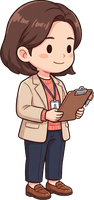
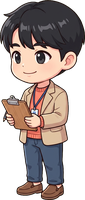
Adventure mode: stage-themed letters, per-stage quests, cooldown UI
- Rewrite hidden letters to match each stage's theme; add 3 letters to the work street
- Count quest kills/drops only on the quest NPC's own map (no stage-2 papers in stage 1)
- Rename the group-home support center NPC to 서아공 with a new male sprite
- Add general store NPCs to the first-home alley and work street
- Faster smishing mob with short dashes
- Buffered and hold-to-repeat attacks; touch buttons capture pointers for multi-press
- Show skill/dash cooldowns on HUD quick slots and touch buttons

diff --git a/game_adventure.html b/game_adventure.html
@@ -247,6 +247,16 @@
     .rb.jump { background: rgba(80, 170, 255, .5); }
     .rb.skill { background: rgba(190, 110, 255, .5); width: clamp(40px, 11vh, 50px); }
     .rb.skill.cd { filter: grayscale(1); }
+    /* 쿨타임: 남은 만큼 어둡게 덮고(--cd = 남은 비율) 남은 초를 가운데에 */
+    .rb { position: relative; }
+    .rb.cd::before {
+      content: ''; position: absolute; inset: -2px; border-radius: 50%; pointer-events: none;
+      background: conic-gradient(transparent calc((1 - var(--cd, 0)) * 360deg), rgba(0,0,0,.6) 0);
+    }
+    .rb.cd::after {
+      content: attr(data-t); position: absolute; inset: 0; display: flex; align-items: center; justify-content: center;
+      font-size: 1.6em; font-weight: bold; color: #fff; text-shadow: 0 0 3px #000, 0 0 3px #000; pointer-events: none;
+    }
     .rb.dash { display: none; background: rgba(90, 210, 200, .5); width: clamp(40px, 11vh, 50px); }
     .rb.dash.show { display: flex; }
     .rb.talk { display: none; background: rgba(255, 196, 0, .8); opacity: 1; animation: talkPulse 1.2s ease-in-out infinite; }
@@ -272,6 +282,15 @@
     .qs b { position: absolute; right: 3px; bottom: 1px; font-weight: normal; font-size: clamp(9px, 1.2vw, 12px); text-shadow: 0 1px 2px #000; }
     .qs small { position: absolute; left: 3px; top: 1px; font-size: 9px; color: #ffd98a; }
     .qs.empty { opacity: .45; }
+    .qs.sk { border-color: rgba(200, 160, 255, .7); }
+    .qs.cd::before {
+      content: ''; position: absolute; inset: 0; border-radius: 8px; pointer-events: none;
+      background: conic-gradient(transparent calc((1 - var(--cd, 0)) * 360deg), rgba(0,0,0,.65) 0);
+    }
+    .qs.cd::after {
+      content: attr(data-t); position: absolute; inset: 0; display: flex; align-items: center; justify-content: center;
+      font-size: .8em; font-weight: bold; text-shadow: 0 0 3px #000, 0 0 3px #000; pointer-events: none;
+    }
     .shop-tabs { display: flex; gap: 8px; justify-content: center; margin-bottom: 10px; }
     .shop-list { display: grid; grid-template-columns: repeat(auto-fill, minmax(150px, 1fr)); gap: 10px; }
     .item {
@@ -354,6 +373,9 @@
         <div class="quick" id="quick">
           <button class="qs" data-pot="potS" title="작은 물약 (1)">🧪<b id="qPotS">0</b><small>1</small></button>
           <button class="qs" data-pot="potL" title="큰 물약 (2)">💖<b id="qPotL">0</b><small>2</small></button>
+          <!-- 기술 칸: 쿨타임 동안 어둡게 덮이고 남은 초가 보인다 -->
+          <button class="qs sk" id="qSkill" data-act="skill" title="스킬 (X)">✨<small>X</small></button>
+          <button class="qs sk" id="qDash" data-act="dash" title="대시 (V)" style="display:none">💨<small>V</small></button>
         </div>
         <div class="hud-btns">
           <button class="hbtn" id="stageBtn">🎮 미니게임</button>
@@ -507,7 +529,7 @@
     counselor: { img: 'npc_counselor', name: '마음쉼터 상담 선생님' },
     mentor:    { img: 'npc_mentor',    name: '자립 선배 태오' },
     shop:      { img: 'npc_shop',      name: '잡화점 하나 사장님' },
-    center:    { img: 'npc_center',    name: '지원센터 윤슬 선생님' },
+    center:    { img: 'npc_center',    name: '서아공' },
     teacher:   { img: 'npc_teacher',   name: '배움마켓 강 강사' },
     pharm:     { img: 'npc_pharm',     name: '동네 약국 약사님' },
     agency:    { img: 'npc_agency',    name: '전담기관 한결 상담원' },
@@ -523,23 +545,33 @@
     magnet: { em: '🧲', name: '코인 자석', price: 120, desc: '근처에 떨어진 코인과 아이템이 알아서 따라와요.' },
   };
 
-  // 아케이드 모드 편지 15통 — 맵 곳곳에 숨겨둔 수집품. {아}/{이가} 등은 이름 받침에 맞춰 바뀐다
+  // 숨겨진 편지 18통 — 맵마다 3통씩, 그 스테이지 주제에 맞는 내용. {아}/{이가} 등은 이름 받침에 맞춰 바뀐다
+  // ※ 저장 데이터가 순번(index)으로 기억하니, 앞 15통의 자리(map·x·y)는 바꾸지 말고 새 편지는 뒤에 붙인다
   const LETTERS = [
-    { map: 'home',   x: 720,  y: 302, text: '{name아}, 네가 처음 그룹홈에 왔던 날이 아직도 선해. 그 작던 아이가 이렇게 멋지고 든든한 어른이 됐구나.', from: '원장님' },
-    { map: 'home',   x: 1100, y: 385, text: '서두르지 않아도 돼. 네 속도로 걸어도 충분히 멀리 갈 수 있어. 파이팅!', from: '담당 선생님' },
-    { map: 'home',   x: 1400, y: 300, text: '매일 밤 기도했어. 우리 {name이가} 따뜻한 곳에서 배불리 먹고 잘 자고 있기를. 보고 싶구나.', from: '원장님' },
-    { map: 'town',   x: 1100, y: 212, text: '모르는 걸 물어보러 온 네가 이미 대단한 거야. 배움에는 나이도 늦음도 없단다.', from: '배움마켓 강사' },
-    { map: 'town',   x: 1560, y: 385, text: '{name} 씨, 매달 20일은 국가가 {name} 씨를 기억하는 날이에요. 잊지 않을게요.', from: '행정복지센터 복지팀' },
-    { map: 'town',   x: 1950, y: 300, text: '오늘 처음으로 내 이름으로 된 통장을 열었다. 손이 떨렸다. 이게 내 돈이라니... 아직 실감이 안 난다.', from: '{name}의 일기' },
-    { map: 'bank',   x: 820,  y: 300, text: '꼬마 때 동전 모으러 오던 아이가 벌써 이렇게 컸네요. 앞으로도 좋은 일만 가득하길.', from: '○○은행 창구' },
-    { map: 'bank',   x: 1800, y: 215, text: '5천만원... 이 숫자의 무게는 돈이 아니라, 나를 믿어준 사람들의 마음이었다.', from: '{name}의 메모' },
-    { map: 'bank',   x: 2100, y: 380, text: '같이 걸어서 여기까지 왔다. 뒤돌아보면 우리가 걸어온 발자국이 얼마나 많은지 보여.', from: '동료 청년' },
-    { map: 'house',  x: 680,  y: 302, text: '좋은 집이야. 여기서 따뜻한 밥 해먹고, 편히 자렴. 축하한다, {name아}.', from: '행복부동산 아저씨' },
-    { map: 'house',  x: 1200, y: 120, text: '아프면 참지 말고 꼭 오렴. 건강이 제일이야.', from: '동네 약국 약사님' },
-    { map: 'house',  x: 1520, y: 300, text: '전국 어디로 이사 가든 우리가 찾아갈게. {name} 씨는 혼자가 아니에요.', from: '자립지원전담기관' },
-    { map: 'forest', x: 1030, y: 302, text: '울어도 괜찮아. 그건 약한 게 아니야. 마음껏 울고 나면, 조금 더 가벼워질 거야.', from: '상담사 선생님' },
-    { map: 'forest', x: 1650, y: 300, text: '{name아}, 이 길엔 늘 함께 걷는 우리가 있어. 서로 정보도 나누고, 앞으로도 쭉 같이 가자.', from: '자립 커뮤니티 동기' },
+    // 보금자리 언덕: 그룹홈을 떠나는 날, 보호기간 연장, 지원센터
+    { map: 'home',   x: 720,  y: 302, text: '{name아}, 네가 처음 그룹홈에 왔던 날이 아직도 선해. 그 작던 아이가 이렇게 든든하게 컸구나. 떠나도 여긴 언제나 네 집이야.', from: '원장님' },
+    { map: 'home',   x: 1100, y: 385, text: '아직 준비가 덜 된 것 같으면 만 24세까지 여기서 더 지내도 돼. 서두르지 말고 네 속도로 가자.', from: '담당 선생님' },
+    { map: 'home',   x: 1400, y: 300, text: '그룹홈을 나가도 연락 끊길 걱정은 하지 마. 나가기 6개월 전부터 그 뒤까지, 내가 쭉 옆에서 챙길게.', from: '서아공' },
+    // 주민센터 거리: 서류·신청, 자립수당, 배움마켓
+    { map: 'town',   x: 1100, y: 212, text: '모르는 걸 물어보러 온 것부터 이미 대단한 거야. 통장 만들기도 월세 계약도, 모르면 배우면 돼.', from: '배움마켓 강 강사' },
+    { map: 'town',   x: 1560, y: 385, text: '{name} 씨, 매달 20일은 자립수당 들어오는 날이에요. 신청 서류에서 막히는 칸이 있으면 언제든 들고 와요.', from: '주민센터 민지 주무관' },
+    { map: 'town',   x: 1950, y: 300, text: '오늘 주민센터에서 처음으로 내 이름으로 서류를 냈다. 떨렸는데, 생각보다 별거 아니었다. 나도 할 수 있네.', from: '{name}의 일기' },
+    // 씨앗은행 광장: 첫 통장, 저축, 디딤씨앗통장
+    { map: 'bank',   x: 820,  y: 300, text: '꼬마 때 저금통 들고 오던 아이가 벌써 이렇게 컸네요. 적은 돈이라도 꾸준히 넣으면 그게 씨앗이 돼요.', from: '씨앗은행 김 대리' },
+    { map: 'bank',   x: 1800, y: 215, text: '오늘 처음으로 내 이름으로 된 통장을 열었다. 손이 떨렸다. 이게 내 돈이라니... 아직 실감이 안 난다.', from: '{name}의 일기' },
+    { map: 'bank',   x: 2100, y: 380, text: '나도 처음엔 한 달에 5만원밖에 못 넣었어. 그런데 디딤씨앗통장에 매달 15만원씩 쌓이는 걸 보니까 처음으로 내일이 기다려지더라.', from: '먼저 자립한 선배' },
+    // 첫 집 골목: 내 집 마련, 건강, 전담기관
+    { map: 'house',  x: 680,  y: 302, text: '좋은 집이야. 여기서 따뜻한 밥 해 먹고 푹 자렴. 계약서는 꼭 잘 챙겨 두고! 축하한다, {name아}.', from: '집 상담사 오 선생님' },
+    { map: 'house',  x: 1200, y: 120, text: '혼자 살면 아파도 참게 되더라. 그러지 말고 꼭 오렴. 건강이 제일이야.', from: '동네 약국 약사님' },
+    { map: 'house',  x: 1520, y: 300, text: '전국 어디로 이사 가든 우리가 찾아갈게요. {name} 씨는 혼자가 아니에요.', from: '자립지원전담기관 한결 상담원' },
+    // 마음 숲: 마음 돌보기, 선배·동료, 마지막 응원
+    { map: 'forest', x: 1030, y: 302, text: '울어도 괜찮아요. 그건 약한 게 아니에요. 실컷 울고 나면 조금은 가벼워질 거예요.', from: '마음쉼터 상담 선생님' },
+    { map: 'forest', x: 1650, y: 300, text: '{name아}, 이 길엔 같이 걷는 우리가 있어. 정보도 나누고 힘들 땐 기대면서, 앞으로도 쭉 같이 가자.', from: '자립준비청년 커뮤니티 동기' },
     { map: 'forest', x: 2300, y: 480, text: '{name아}, 이 편지들은 네가 이 세상에서 사랑받고 있다는 증거야. 앞으로도 쭉, 우리가 응원할게.', from: '우리 모두' },
+    // 일터 거리: 첫 알바, 첫 월급, 일하는 사람의 권리
+    { map: 'work',   x: 500,  y: 392, text: '첫 출근이라 떨리죠? 실수해도 괜찮아요. 처음엔 다 그래요. 모르는 건 그냥 물어봐요.', from: '햇살카페 도윤 사장님' },
+    { map: 'work',   x: 1060, y: 212, text: '첫 월급날. 근로계약서랑 통장에 찍힌 숫자를 몇 번이나 다시 봤다. 내 손으로 번 돈이다!', from: '{name}의 일기' },
+    { map: 'work',   x: 1430, y: 390, text: '일하다 억울한 일이 생기면 혼자 삼키지 말아요. 1350도 있고, 우리 고용센터도 있어요.', from: '고용센터 서진 상담사' },
   ];
 
   // 상점: 물약은 인벤토리로, 가구는 '내 집' 정해진 자리에 놓인다 (x, 바닥 기준 y, 높이)
@@ -570,7 +602,7 @@
     worry:  { img: 'mob_worry',  name: '걱정 구름',     h: 56,  hp: 30,  dmg: 8,  exp: 12,  speed: 45, coin: [3, 8] },
     debt:   { img: 'mob_debt',   name: '빚 코인',       h: 56,  hp: 50,  dmg: 11, exp: 18,  speed: 58, coin: [6, 14] },
     lonely: { img: 'mob_lonely', name: '외로움 그림자', h: 60,  hp: 80,  dmg: 14, exp: 26,  speed: 40, coin: [8, 18] },
-    scam:   { img: 'mob_scam',   name: '스미싱 문자',   h: 58,  hp: 70,  dmg: 13, exp: 24,  speed: 64, coin: [8, 16] },
+    scam:   { img: 'mob_scam',   name: '스미싱 문자',   h: 58,  hp: 70,  dmg: 13, exp: 24,  speed: 115, coin: [8, 16], dart: true }, // 빠르고, 가끔 휙 달려든다
     boss:   { img: 'mob_boss',   name: '불안 대왕',     h: 170, hp: 750, dmg: 20, exp: 260, speed: 55, coin: [150, 200], boss: true },
   };
 
@@ -717,7 +749,7 @@
       npc: 'center', title: '원장님 반찬통 찾기', requires: 'q1',
       goal: { type: 'fetch', item: 'lunch', n: 1 }, goalLabel: '반찬통',
       intro: [
-        '안녕, {name}! 나는 <span class="hi">서울시 아동공동생활가정 지원센터</span>에서 왔어. 그룹홈을 나서는 친구들을 계속 챙기는 게 내 일이야.',
+        '안녕, {name}! 나는 <span class="hi">서아공</span>이야! <span class="hi">서울시 아동공동생활가정 지원센터</span>를 줄여서 서아공이라고 불러. 그룹홈을 나서는 친구들을 계속 챙기는 게 내 일이야.',
         '그런데 동생들이 장난으로 원장님이 싸 둔 🍱 <span class="hi">반찬통</span>을 언덕 꼭대기 발판에 숨겨놨대. 가져와 줄래?',
       ],
       active: '반찬통은 언덕 오른쪽 제일 높은 발판 위에 있어. 발판을 차례로 밟고 올라가 봐!',
@@ -854,7 +886,7 @@
         '(띵동) {name아}, 원장님이야! 반찬 좀 싸 왔어. 집 구경 좀 해도 될까?',
         '어머, 아직 좀 휑하네. 이왕이면 다 같이 <span class="hi">집들이</span> 하자! 잡화점에서 <span class="hi">가구 3개</span>만 채워볼래?',
       ],
-      active: '가구는 주민센터 거리 잡화점에서 살 수 있어. 코인이 모자라면 씨앗은행 저축도 써 봐!',
+      active: '가구는 잡화점에서 살 수 있어. 첫 집 골목에도 있으니까 바로 나가 봐! 코인이 모자라면 씨앗은행 저축도 써 봐!',
       ready: ['와, 이제 진짜 집 같다! 우리 {name이} 다 컸네.', '집들이 전에, 같이 지난 길을 돌아볼까?'],
       quizzes: [{
         q: '가계부를 펴 볼까? 서울 자립정착금 <span class="hi">2,000만원</span> + 자립수당 5년치(<span class="hi">50만원 × 60개월</span>)를 더하면?',
@@ -912,7 +944,7 @@
       // 사다리 1: 땅 → 발판(850~1050, y212) / 사다리 2: 그 발판 → 옥상(990~1380, y120)
       plats: [[360, 392, 200], [600, 302, 180], [850, 212, 200], [990, 120, 390], [1420, 300, 220], [1680, 390, 200]],
       ladders: [[890, 212, 480], [1020, 120, 212]],
-      npcs: [['house', 220], ['pharm', 1300], ['agency', 1640]],
+      npcs: [['house', 220], ['shop', 720], ['pharm', 1300], ['agency', 1640]],
       spawns: [['worry', -1, 500, 1850, 3], ['debt', 4, 0, 0, 1], ['lonely', 5, 0, 0, 1]],
       portals: [{ x: 60, to: 'bank', at: 1 }, { x: 1940, to: 'work', at: 0, need: 'q4' }, { x: 560, to: 'myhome', at: 0, need: 'q4' }],
       items: [{ item: 'key', icon: '🔑', x: 1300, y: 120, quest: 'q4' }],
@@ -931,7 +963,7 @@
       title: '일터 거리', area: '새싹 동네', bg: 'bg_work', w: 2400,
       plats: [[380, 392, 240], [680, 300, 220], [980, 212, 220], [1300, 390, 260], [1620, 300, 240], [1940, 215, 220]],
       ladders: [[1100, 212, 480]],
-      npcs: [['cafe', 260], ['jobcenter', 1480]],
+      npcs: [['cafe', 260], ['shop', 800], ['jobcenter', 1480]],
       spawns: [['scam', -1, 520, 2250, 4], ['debt', -1, 700, 2200, 2], ['scam', 1, 0, 0, 1], ['scam', 4, 0, 0, 1], ['debt', 3, 0, 0, 1]],
       // 이미 마음 숲 퀘스트(q5)를 시작한 기존 플레이어는 일터 퀘스트 없이도 지나갈 수 있다
       portals: [{ x: 60, to: 'house', at: 1 }, { x: 2340, to: 'forest', at: 0, need: 'qw1', skipIf: 'q5' }],
@@ -944,6 +976,10 @@
       start: 200,
     },
   };
+
+  // 퀘스트 id → 그 퀘스트 NPC가 서 있는 맵
+  const QUEST_MAP = {};
+  for (const id in QUESTS) for (const m in MAPS) if (MAPS[m].npcs.some(n => n[0] === QUESTS[id].npc)) QUEST_MAP[id] = m;
 
   /* ================= IMAGES ================= */
   const IMG = {};
@@ -1029,10 +1065,19 @@
 
   document.querySelectorAll('[data-k]').forEach(b => {
     const k = b.dataset.k;
-    const on = (e) => { e.preventDefault(); if (!keys[k]) pressed[k] = true; keys[k] = true; b.classList.add('on'); };
-    const off = (e) => { e.preventDefault(); keys[k] = false; b.classList.remove('on'); };
-    b.addEventListener('pointerdown', on); b.addEventListener('pointerup', off);
-    b.addEventListener('pointercancel', off); b.addEventListener('pointerleave', off);
+    // 버튼마다 손가락을 따로 붙잡아서(포인터 캡처) 여러 버튼 동시 누르기 + 손가락이 살짝 밀려도 안 떨어지게
+    const held = new Set();
+    const on = (e) => {
+      e.preventDefault(); held.add(e.pointerId);
+      try { b.setPointerCapture(e.pointerId); } catch (_) {}
+      if (!keys[k]) pressed[k] = true; keys[k] = true; b.classList.add('on');
+    };
+    const off = (e) => {
+      if (!held.delete(e.pointerId)) return;
+      if (!held.size) { keys[k] = false; b.classList.remove('on'); }
+    };
+    b.addEventListener('pointerdown', on);
+    ['pointerup', 'pointercancel', 'lostpointercapture'].forEach(ev => b.addEventListener(ev, off));
   });
   const isTouch = matchMedia('(pointer: coarse)').matches;
 
@@ -1141,8 +1186,7 @@
     P.skillCd = Math.max(0, P.skillCd - dt); P.atk = Math.max(0, P.atk - dt);
     P.dropT = Math.max(0, P.dropT - dt); P.lastHit += dt;
     if (P.lastHit > 4 && S.hp < maxHp()) { S.hp = Math.min(maxHp(), S.hp + dt * 4); updateHud(); }
-    const cd = P.skillCd > 0;
-    if (cd !== skillCdShown) { skillCdShown = cd; $('skillBtn').classList.toggle('cd', cd); }
+    updateCdButtons();
     const canTalk = !!(nearNpc() || map.portals.some(p => Math.abs(p.x - P.x) < 40 && P.y >= GROUND - 2));
     if (canTalk !== talkShown) { talkShown = canTalk; $('talkBtn').classList.toggle('show', canTalk); }
 
@@ -1192,11 +1236,15 @@
       burst(P.x, P.y, '#bfe9ff', 10);
     }
     if (pressed.dash && S.skills.dash && P.dashCd <= 0) {
-      P.dashT = 0.2; P.dashCd = 0.9;
+      P.dashT = 0.2; P.dashCd = DASH_CD;
       burst(P.x, P.y - 30, '#e0f4ff', 8);
     }
-    if (pressed.attack && P.atkCd <= 0) attack(false);
-    if (pressed.skill && P.skillCd <= 0) attack(true);
+    // 공격: 쿨다운 중에 누른 것도 0.25초 기억했다가 풀리자마자 나간다. 꾹 누르고 있으면 연속 공격
+    if (pressed.attack) P.atkBuf = 0.25;
+    if (pressed.skill) P.skillBuf = 0.25;
+    P.atkBuf = Math.max(0, (P.atkBuf || 0) - dt); P.skillBuf = Math.max(0, (P.skillBuf || 0) - dt);
+    if ((P.skillBuf > 0 || keys.skill) && P.skillCd <= 0 && P.atkCd <= 0) { P.skillBuf = 0; attack(true); }
+    else if ((P.atkBuf > 0 || keys.attack) && P.atkCd <= 0) { P.atkBuf = 0; attack(false); }
     if (pressed.potS) usePotion('potS');
     if (pressed.potL) usePotion('potL');
 
@@ -1247,12 +1295,12 @@
     });
   }
 
-  // 공격 간격 (예전 0.42초 → 0.24초). 공격 중에도 움직일 수 있다
-  const ATK_CD = 0.24, ATK_ANIM = 0.18;
+  // 공격 간격 (예전 0.42초 → 0.2초). 공격 중에도 움직일 수 있다
+  const ATK_CD = 0.2, ATK_ANIM = 0.16, SKILL_CD = 4, DASH_CD = 0.9;
   function attack(skill) {
     const dmgBase = 12 + S.lv * 4;
     if (skill) {
-      P.skillCd = 4; P.atk = ATK_ANIM; P.atkCd = 0.28;
+      P.skillCd = SKILL_CD; P.atk = ATK_ANIM; P.atkCd = 0.28;
       fx.push({ kind: 'wave', x: P.x, y: P.y - 34, face: P.face, t: 0, life: 0.5 });
       const hits = mobs.filter(m => m.alive && m.dead <= 0 && inFront(m, 270, 90)).slice(0, 6);
       hits.forEach(m => hitMob(m, Math.round(dmgBase * 1.6 * rnd(.9, 1.15))));
@@ -1281,10 +1329,10 @@
     gainExp(m.def.exp);
     const n = m.def.boss ? 8 : 1 + (Math.random() < .35 ? 1 : 0);
     for (let i = 0; i < n; i++) drops.push({ kind: 'coin', v: Math.round(rnd(...m.def.coin) / n), x: m.x, y: m.y, vx: rnd(-80, 80), vy: -rnd(250, 380), base: m.y, t: 0 });
-    // 퀘스트
+    // 퀘스트: 그 퀘스트를 주는 NPC가 있는 맵에서만 센다 (다른 스테이지에서 미리 서류가 떨어지지 않게)
     for (const id in QUESTS) {
       const q = QUESTS[id];
-      if (!countable(id)) continue;
+      if (!countable(id) || QUEST_MAP[id] !== mapId) continue;
       if (q.goal.type === 'kill' && q.goal.mob === m.type) progress(id, 1);
       if (q.goal.type === 'collect' && q.goal.from.includes(m.type) && Math.random() < q.goal.rate)
         drops.push({ kind: 'item', item: q.goal.item, icon: q.goal.icon || '📄', quest: id, x: m.x, y: m.y, vx: rnd(-40, 40), vy: -300, base: m.y, t: 0 });
@@ -1305,10 +1353,15 @@
       if (m.def.boss) bossAI(m, dt);
       else {
         // 가까우면 플레이어 쪽으로
-        const near = Math.abs(P.x - m.x) < 220 && Math.abs(P.y - m.y) < 30;
+        const near = Math.abs(P.x - m.x) < (m.def.dart ? 320 : 220) && Math.abs(P.y - m.y) < 30;
         if (near) m.dir = P.x > m.x ? 1 : -1;
         else if ((m.turnT -= dt) <= 0) { m.dir = Math.random() < .5 ? -1 : 1; m.turnT = 1.5 + Math.random() * 3; }
-        if (m.hit <= 0) m.x += m.dir * m.def.speed * dt;
+        let sp = m.def.speed;
+        if (m.def.dart) { // 스미싱 문자: 1~2초마다 0.3초 동안 2.5배로 휙 달려든다
+          if ((m.dartT = (m.dartT ?? rnd(1, 2)) - dt) <= 0) { m.dartT = rnd(1.2, 2.2); m.darting = 0.3; }
+          if (m.darting > 0) { m.darting -= dt; sp *= 2.5; }
+        }
+        if (m.hit <= 0) m.x += m.dir * sp * dt;
         if (m.x < m.x1) { m.x = m.x1; m.dir = 1; } if (m.x > m.x2) { m.x = m.x2; m.dir = -1; }
       }
       // 충돌 데미지
@@ -1334,7 +1387,25 @@
     m.x = clamp(m.x, m.x1, m.x2);
   }
 
-  let shake = 0, skillCdShown = false, talkShown = false;
+  let shake = 0, talkShown = false;
+
+  /* ---------- 쿨타임 표시 ---------- */
+  // 폰 버튼: 남은 비율만큼 어둡게 덮고(시계 방향으로 걷힌다) 남은 초를 숫자로
+  const cdBtnShown = {};
+  function setBtnCd(id, left, max) {
+    const t = left > 0 ? (left >= 1 ? Math.ceil(left) : left.toFixed(1)) : '';
+    const r = left > 0 ? (left / max).toFixed(2) : '0';
+    const key = t + '|' + r;
+    if (cdBtnShown[id] === key) return;
+    cdBtnShown[id] = key;
+    const b = $(id);
+    b.style.setProperty('--cd', r); b.dataset.t = t; b.classList.toggle('cd', left > 0);
+  }
+  function updateCdButtons() {
+    setBtnCd('skillBtn', P.skillCd, SKILL_CD); setBtnCd('qSkill', P.skillCd, SKILL_CD);
+    setBtnCd('dashBtn', P.dashCd || 0, DASH_CD); setBtnCd('qDash', P.dashCd || 0, DASH_CD);
+  }
+
 
   // NPC를 직접 터치/클릭해도 대화 (가까이 있을 때)
   function tapNpcAt(clientX, clientY) {
@@ -1409,7 +1480,7 @@
   function usePotion(id) {
     if (mode !== 'play') return;
     const pot = POTIONS[id];
-    if (!S.inv[id]) { toast(`${pot.em} ${pot.name}이 없어요. 주민센터 거리 잡화점에서 살 수 있어요!`); return; }
+    if (!S.inv[id]) { toast(`${pot.em} ${pot.name}이 없어요. 잡화점(주민센터 거리·첫 집 골목·일터 거리)에서 살 수 있어요!`); return; }
     if (S.hp >= maxHp()) { toast('체력이 이미 가득 찼어요 💪'); return; }
     S.inv[id]--;
     const before = S.hp;
@@ -1454,7 +1525,10 @@
     nextStep();
   }
 
-  function updateSkillUi() { $('dashBtn').classList.toggle('show', !!(S && S.skills.dash)); }
+  function updateSkillUi() {
+    $('dashBtn').classList.toggle('show', !!(S && S.skills.dash));
+    $('qDash').style.display = S && S.skills.dash ? '' : 'none';
+  }
 
   /* ---------- 편지 (아케이드 모드) ---------- */
   function letterFill(s) { return fill(s); }
@@ -1741,7 +1815,7 @@
     $('coinTxt').textContent = S.coins.toLocaleString();
     $('bankTxt').textContent = S.bank.bal ? `🏦 ${S.bank.bal.toLocaleString()}` : '';
     $('qPotS').textContent = S.inv.potS; $('qPotL').textContent = S.inv.potL;
-    document.querySelectorAll('.qs').forEach(b => b.classList.toggle('empty', !S.inv[b.dataset.pot]));
+    document.querySelectorAll('.qs[data-pot]').forEach(b => b.classList.toggle('empty', !S.inv[b.dataset.pot]));
   }
   function updateTracker() {
     const el = $('tracker');
@@ -1860,7 +1934,7 @@
         ctx.fillStyle = '#fff';
         ctx.fillText('아직 텅 빈 내 첫 집이에요 🏠', 640, 327);
         ctx.fillStyle = '#ffd98a'; ctx.font = '16px Jua, sans-serif';
-        ctx.fillText('주민센터 거리 잡화점에서 가구를 사면 여기에 놓여요!', 640, 352);
+        ctx.fillText('문 밖 잡화점에서 가구를 사면 여기에 놓여요!', 640, 352);
       }
     }
     map.portals.forEach(drawPortal);
@@ -2287,7 +2361,8 @@
   $('keepBtn').onclick = () => startGame();
   $('shopClose').onclick = () => { screen(null); mode = 'play'; };
   document.querySelectorAll('.shop-tabs .btn').forEach(b => b.onclick = () => { shopTab = b.dataset.tab; renderShop(); });
-  document.querySelectorAll('.qs').forEach(b => b.addEventListener('pointerdown', e => { e.preventDefault(); usePotion(b.dataset.pot); }));
+  document.querySelectorAll('.qs[data-pot]').forEach(b => b.addEventListener('pointerdown', e => { e.preventDefault(); usePotion(b.dataset.pot); }));
+  document.querySelectorAll('.qs[data-act]').forEach(b => b.addEventListener('pointerdown', e => { e.preventDefault(); pressed[b.dataset.act] = true; }));
 
   loadImages().then(() => {
     const tb = IMG.bg_title ? `url(${A}bg_title.jpg)` : 'none';

diff --git a/scripts/generate_adventure_assets.py b/scripts/generate_adventure_assets.py
@@ -82,7 +82,7 @@ SPRITES["npc_cafe"] = "a friendly Korean cafe owner man in his 30s, short curly 
 SPRITES["npc_jobcenter"] = "a dependable Korean public employment center counselor woman in her 30s, ponytail, navy vest over white blouse, ID badge, holding a folder with a job poster, facing left"
 SPRITES["mob_scam"] = "a sneaky little smartphone monster with a suspicious grin, glowing red warning-link on its screen, tiny arms holding a fishing hook, cute but mischievous"
 BACKGROUNDS["bg_work"] = "a busy cheerful downtown work street with a cozy cafe with a 'help wanted' sign, a convenience store, an employment center building, office buildings, bicycles, midday sky"
-SPRITES["npc_center"] ="a warm Korean social worker woman in her late 20s from a group home support center, short bob hair, beige blazer over a coral sweater, lanyard ID card, holding a clipboard, facing left"
+SPRITES["npc_center"] = "a warm Korean male social worker in his late 20s from a group home support center, short neat black hair, beige blazer over a coral sweater, lanyard ID card, holding a clipboard, friendly smile, facing left"
 SPRITES["npc_teacher"] = "an energetic Korean life-skills instructor man in his 30s, neat undercut hair, round glasses, navy cardigan, holding a pointer stick and a small whiteboard, facing left"
 SPRITES["npc_pharm"] = "a kind Korean pharmacist woman in her 40s, hair tied back, white pharmacist coat over a sky-blue shirt, holding a small medicine bag, facing left"
 SPRITES["npc_agency"] = "a reliable Korean youth independence support counselor man in his 30s, short neat hair, orange windbreaker with a small map badge, holding a tablet, friendly smile, facing left"
